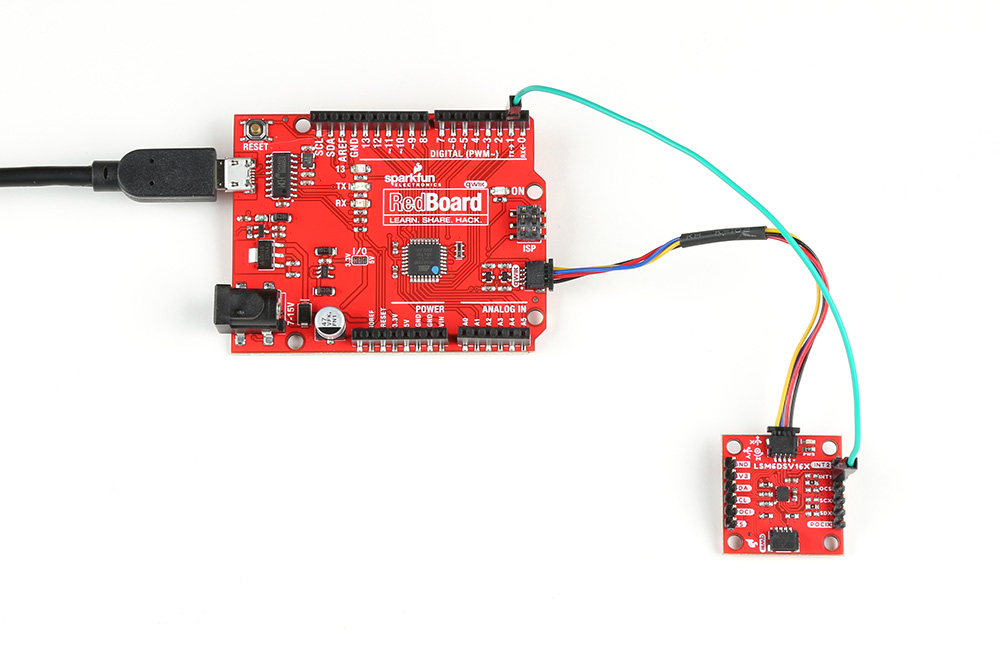
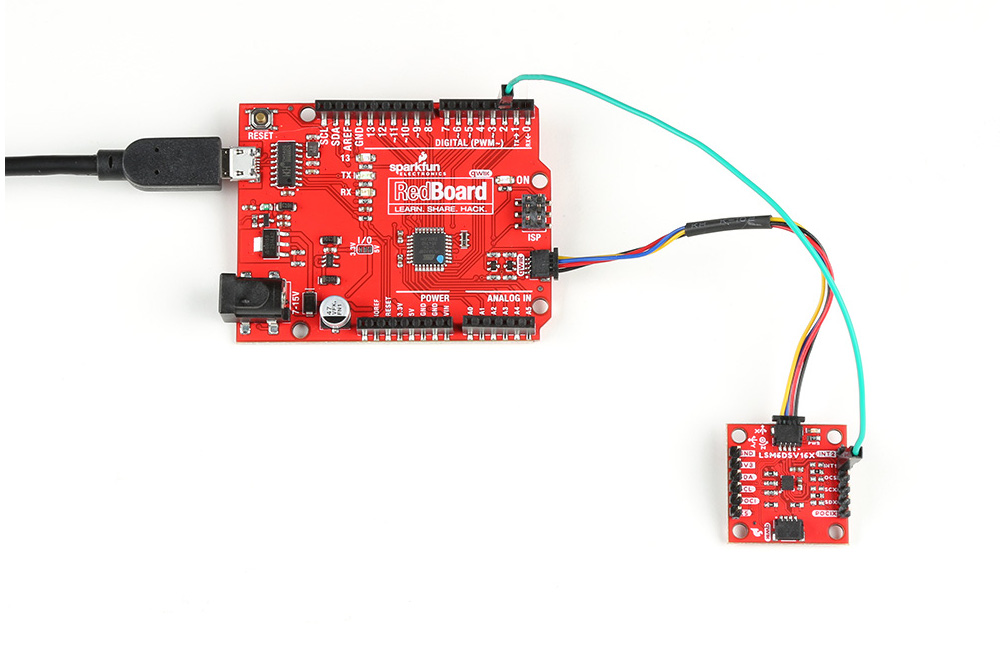
Updating examples

Changed region(s): [[0.0, 0.09, 0.868, 0.8396]]

diff --git a/docs/examples.md b/docs/examples.md
@@ -52,13 +52,16 @@ Alternatively, you can expand the link below and copy and paste the code into a 
 Your setup should resemble something like this: 
 
 <figure markdown>
-[![LSM6DSV16X Arduino Example 2](assets/imgs/Example2_WiringTake2.jpg){ width="90%" }](assets/imgs/Example2_WiringTake2.jpg "Click to enlarge")
+[![LSM6DSV16X Arduino Example 2](assets/imgs/Example2_Wiring.jpg){ width="90%" }](assets/imgs/Example2_Wiring.jpg "Click to enlarge")
 <figcaption markdown>Example 2</figcaption>
 </figure>
 
-Again, make sure you've selected the correct board and port in the Tools menu and then hit the upload button. Once the code has finished uploading, go ahead and open a [Serial Monitor](https://learn.sparkfun.com/tutorials/terminal-basics). You should see something similar to the following.
+Make sure your code matches the pin you've selected as the interrupt pin. Here Pin 2 is wired as the interrupt pin on the RedBoard, so the code was modified to reflect that. Again, make sure you've selected the correct board and port in the Tools menu and then hit the upload button. Once the code has finished uploading, go ahead and open a [Serial Monitor](https://learn.sparkfun.com/tutorials/terminal-basics). You should see something similar to the following.
 
-
+<figure markdown>
+[![LSM6DSV16X Arduino Example 2 Output](assets/imgs/Example2_Output.jpg){ width="90%" }](assets/imgs/Example2_Output.jpg "Click to enlarge")
+<figcaption markdown>Example 2 Output</figcaption>
+</figure>
 
 
 
